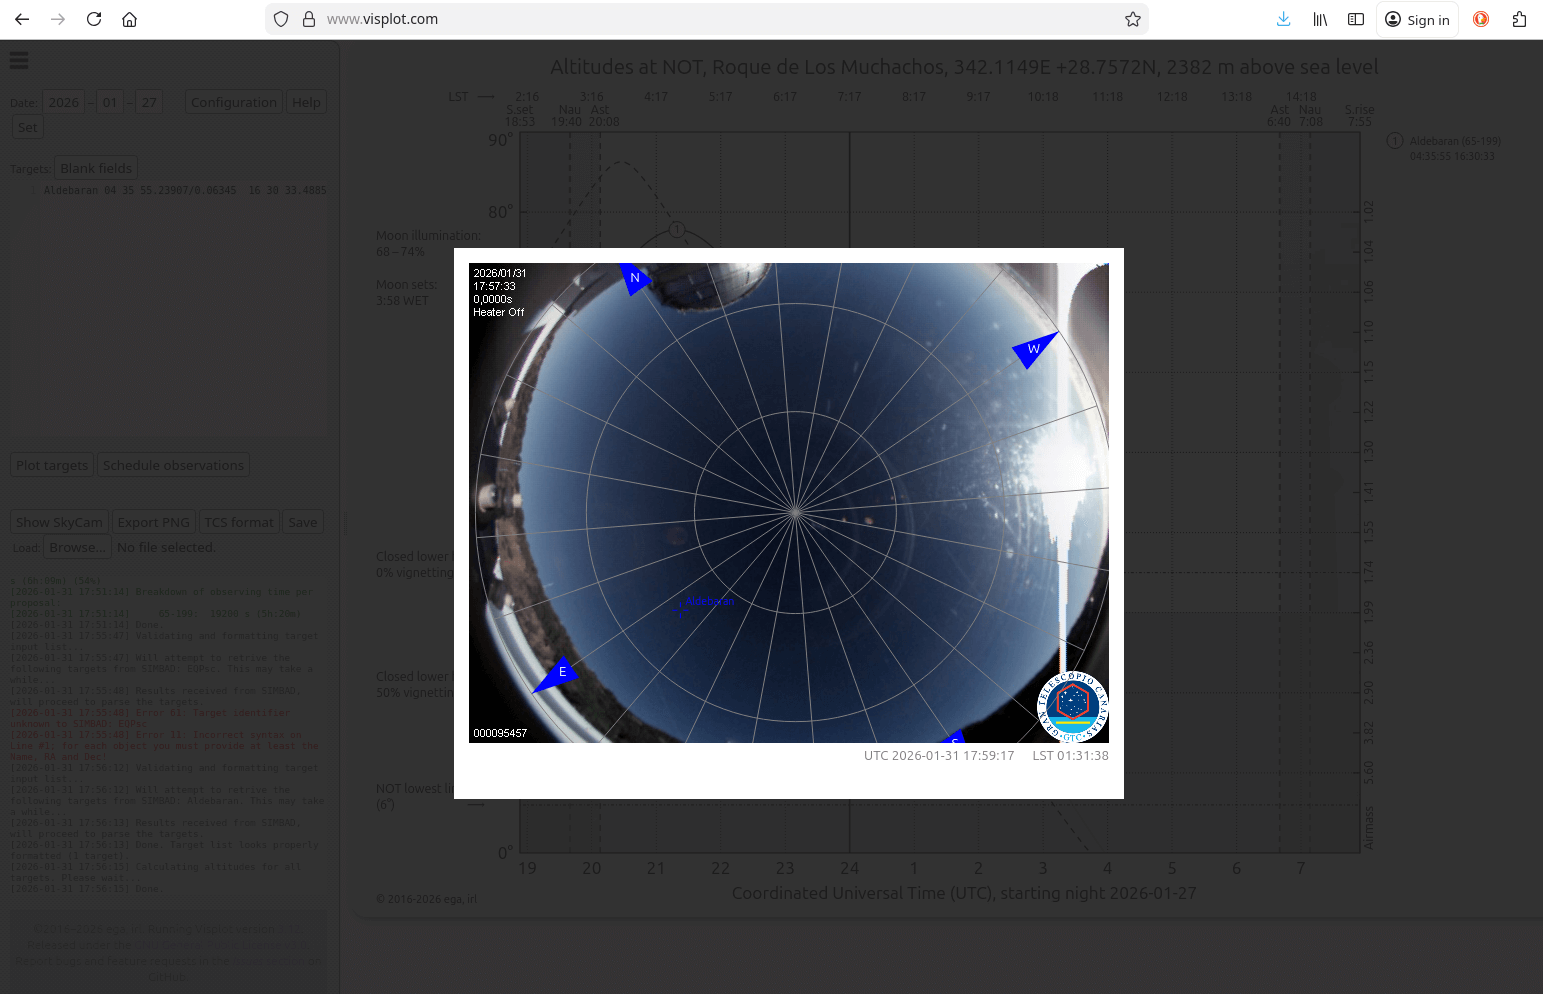
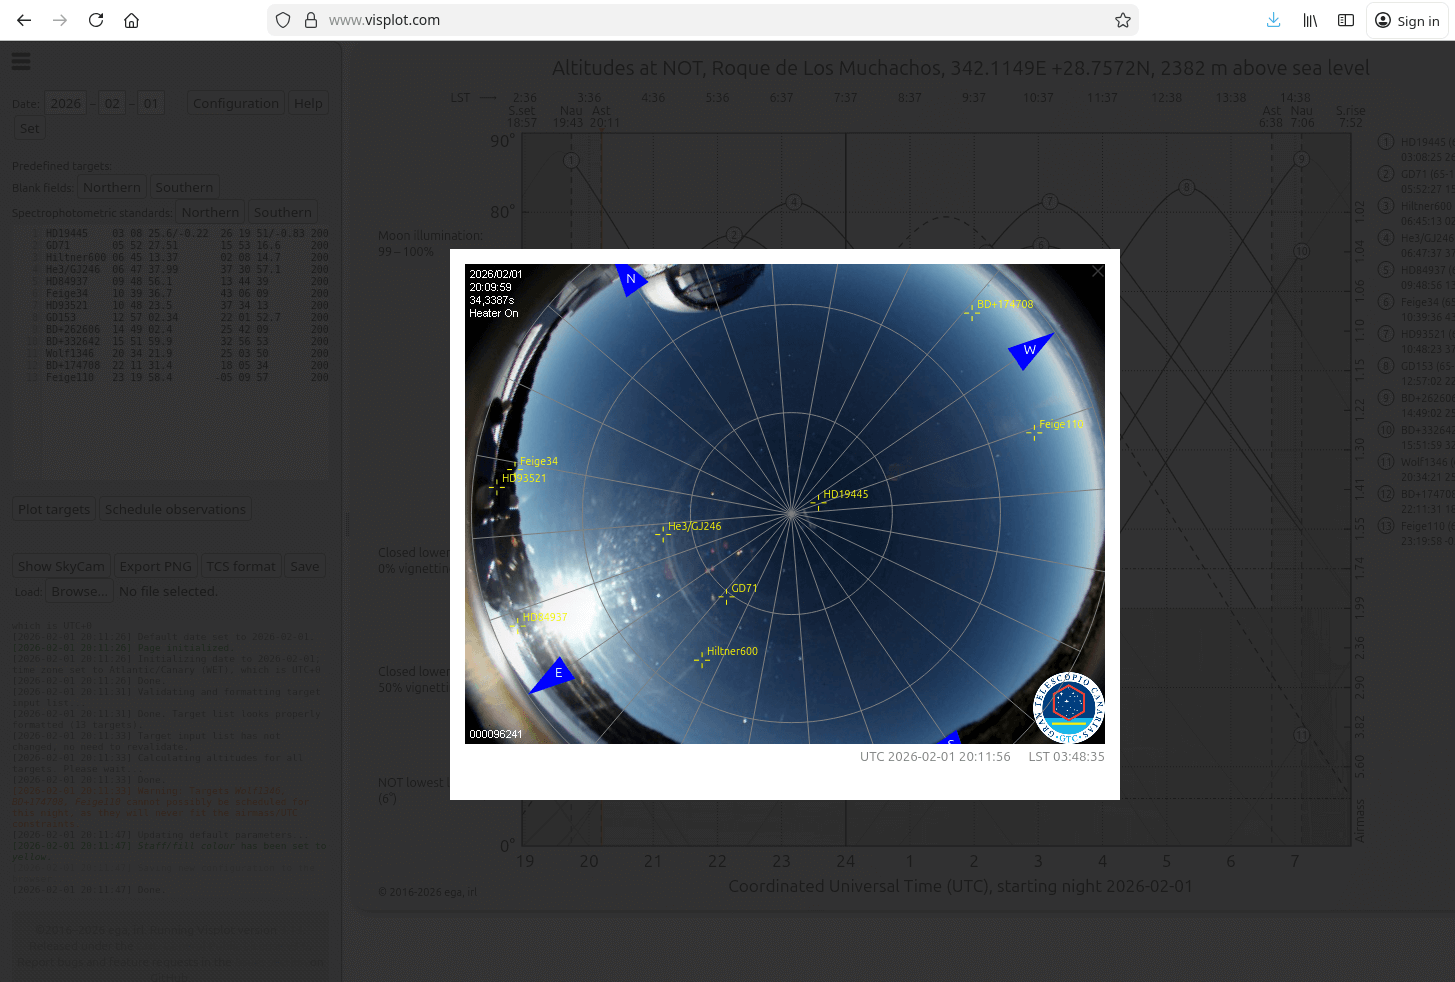
RTD: modifying the skycam section and adding a section about the current time indicator with the red line

diff --git a/readthedocs/tutorial.rst b/readthedocs/tutorial.rst
@@ -189,6 +189,17 @@ Currently available predefined targets include:
   both hemispheres. These are intended for routine calibration observations
   and can be loaded with a single click.
 
+Current Time Indicator
+======================
+
+During an observing night, Visplot displays a vertical red line on the main
+plot area that indicates the current time. This provides a real-time reference
+so you can easily see which targets are currently observable.
+
+.. image:: figs/night_redline.png
+   :alt: Visibility plot with current time indicator
+   :width: 700px
+
 
 Advanced Features
 =================
@@ -212,14 +223,24 @@ Click :guilabel:`Configuration` to adjust default settings:
 SkyCam Integration
 ------------------
 
-The :guilabel:`Show SkyCam` button opens a live view of the sky camera, with targets overlaid if plotted.
+The :guilabel:`Show SkyCam` button opens a live view from the sky camera
+associated with the selected telescope.
 
 .. image:: figs/skycam.png
    :alt: SkyCam view with targets
    :width: 700px
 
-In the web interface, this option currently works only with telescopes located
-at the El Roque de Los Muchachos Observatory.
+If Visplot has access to the necessary coordinate transformations, the plotted
+targets will be overlaid directly on the camera image. In some environments,
+for example within the intranet of the NOT, the current telescope pointing is
+also displayed.
+
+In the public web interface, this feature is currently available only for some
+telescopes, such as those located at the El Roque de los Muchachos Observatory.
+
+This view can be particularly useful during partially cloudy nights, as it
+allows you to quickly identify targets that are clear of clouds and adjust
+your observing plan accordingly.
 
 
 Manual Reordering
@@ -234,7 +255,7 @@ Click on a target's number in the plot to see:
 
 - Observation details: Proposal, Type, RA, Dec, Epoch, Moon distance, Obstime, and Instrument
 - Finding chart from Aladin
-- Option to mark as observed (only works when the observing night is in progress)
+- Option to mark as observed (only works when the observing night is in progress and you have :guilabel:`Schedule observations`).
 
 .. image:: figs/target_details.png
    :alt: Target details popup
